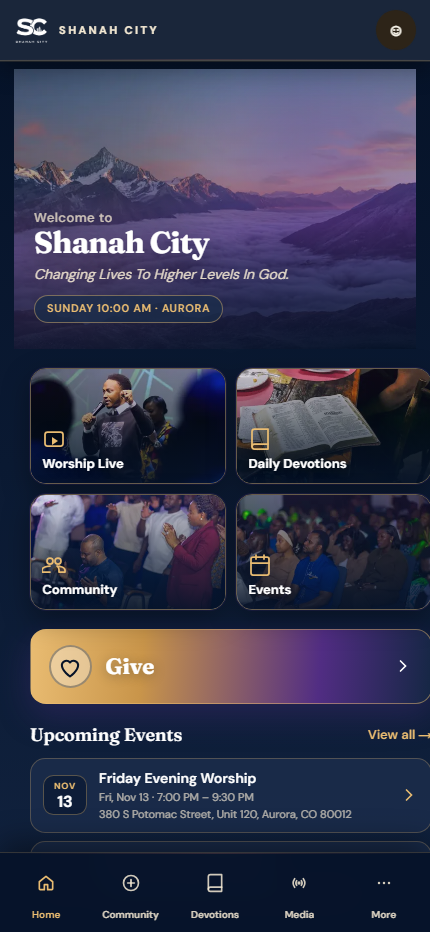
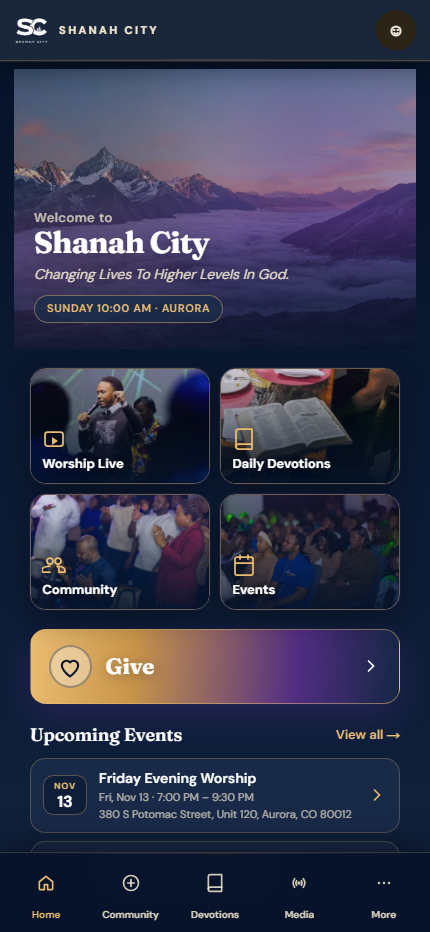
chore(home-v4): refresh Playwright screenshots after overflow fix (d4bebf6).

diff --git a/e2e/premium-home-v4-mobile.spec.ts b/e2e/premium-home-v4-mobile.spec.ts
@@ -54,6 +54,27 @@ test.describe("Premium Home V4 mobile screenshots", () => {
       [...pageErrors, ...consoleErrors].join("\n"),
     ).toEqual([]);
 
+    await page.waitForFunction(() => {
+      const doc = document.documentElement;
+      return doc.scrollWidth <= doc.clientWidth + 1;
+    });
+
+    await expect(
+      page.locator('img[src*="shanah-city-logo-dark"]'),
+    ).toBeVisible();
+
+    for (const tile of await page.locator(".ph4-tile").all()) {
+      const box = await tile.boundingBox();
+      expect(box).not.toBeNull();
+      expect(box!.x + box!.width).toBeLessThanOrEqual(390.5);
+    }
+
+    const viewAll = page.locator(".ph4-section__link", { hasText: "View all" });
+    await expect(viewAll.first()).toBeVisible();
+    const viewAllBox = await viewAll.first().boundingBox();
+    expect(viewAllBox).not.toBeNull();
+    expect(viewAllBox!.x + viewAllBox!.width).toBeLessThanOrEqual(390.5);
+
     await page.screenshot({
       path: path.join(artifactDir, "premium-home-v4-390x844-viewport.png"),
       fullPage: false,
@@ -66,6 +87,10 @@ test.describe("Premium Home V4 mobile screenshots", () => {
     await page.setViewportSize({ width: 430, height: 932 });
     await page.goto("/", { waitUntil: "networkidle" });
     await page.waitForSelector(".premium-home-v4");
+    await page.waitForFunction(() => {
+      const doc = document.documentElement;
+      return doc.scrollWidth <= doc.clientWidth + 1;
+    });
     await page.waitForFunction(
       () => {
         const imgs = Array.from(
@@ -79,6 +104,17 @@ test.describe("Premium Home V4 mobile screenshots", () => {
       undefined,
       { timeout: 60_000 },
     );
+
+    for (const tile of await page.locator(".ph4-tile").all()) {
+      const box = await tile.boundingBox();
+      expect(box).not.toBeNull();
+      expect(box!.x + box!.width).toBeLessThanOrEqual(430.5);
+    }
+
+    const viewAll430 = page.locator(".ph4-section__link", { hasText: "View all" });
+    const viewAll430Box = await viewAll430.first().boundingBox();
+    expect(viewAll430Box).not.toBeNull();
+    expect(viewAll430Box!.x + viewAll430Box!.width).toBeLessThanOrEqual(430.5);
 
     await page.screenshot({
       path: path.join(artifactDir, "premium-home-v4-430x932-viewport.png"),
